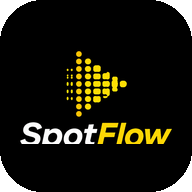
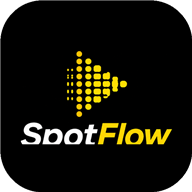
deploy: 32304e6 v0.0.0 [main] tor. 15. 09. 2026  2:17

diff --git a/sw.js b/sw.js
@@ -1,1 +1,1 @@
-if(!self.define){let s,e={};const i=(i,n)=>(i=new URL(i+".js",n).href,e[i]||new Promise(e=>{if("document"in self){const s=document.createElement("script");s.src=i,s.onload=e,document.head.appendChild(s)}else s=i,importScripts(i),e()}).then(()=>{let s=e[i];if(!s)throw new Error(`Module ${i} didn’t register its module`);return s}));self.define=(n,r)=>{const l=s||("document"in self?document.currentScript.src:"")||location.href;if(e[l])return;let o={};const u=s=>i(s,l),a={module:{uri:l},exports:o,require:u};e[l]=Promise.all(n.map(s=>a[s]||u(s))).then(s=>(r(...s),o))}}define(["./workbox-9c191d2f"],function(s){"use strict";self.skipWaiting(),s.clientsClaim(),s.precacheAndRoute([{url:"spotflow-logo.png",revision:"9ff837beaae7fa1dc3f49606cdd8426b"},{url:"registerSW.js",revision:"1872c500de691dce40960bb85481de07"},{url:"notification.mp3",revision:"495b007e540929ee01e7f0ebe2cb47cc"},{url:"index.html",revision:"413a0f9f843cf7f486b5be91e26f038a"},{url:"icons.svg",revision:"3b4fcfcf393eca4d264dca4a4663bc37"},{url:"favicon.svg",revision:"7e840862161341271697daa99a40d76b"},{url:"icons/preview-512.png",revision:"50a3182d126662bba15eb9903e26a877"},{url:"icons/icon.svg",revision:"6c73a8a7912e82b07e328a619e6c216f"},{url:"icons/icon-512.png",revision:"50a3182d126662bba15eb9903e26a877"},{url:"icons/icon-512-maskable.png",revision:"db7b7ddf3205966ee821acd1664694e5"},{url:"icons/icon-192.png",revision:"ec52d528c0d2f7875d8ada35d806cc69"},{url:"fonts/fonts.css",revision:"e4f489587bd2df9a90fa72673d0f4624"},{url:"assets/web-BqKuqhJQ.js",revision:null},{url:"assets/supabase-zfsjU53t.js",revision:null},{url:"assets/Sponzorstva-CPTqAeUr.js",revision:null},{url:"assets/Settings-BzRrHga8.js",revision:null},{url:"assets/rolldown-runtime-DAXXjFlN.js",revision:null},{url:"assets/purify.es-Bu4Grnl0.js",revision:null},{url:"assets/Promocije-Bkwu-943.js",revision:null},{url:"assets/PdfSendModal-Cw6U3sDd.js",revision:null},{url:"assets/jsx-runtime-BvIZmjn5.js",revision:null},{url:"assets/jspdf.es.min-C9olxo-a.js",revision:null},{url:"assets/index.es-CZKQ5KPn.js",revision:null},{url:"assets/index-DMuIlxl7.css",revision:null},{url:"assets/index-Co3HiImI.js",revision:null},{url:"assets/html2canvas-CLVA0Ark.js",revision:null},{url:"assets/docxParse-CSU2G-Ha.js",revision:null},{url:"assets/DocxImporter-VgXw61Li.js",revision:null},{url:"assets/ConfirmModal-DUYBMh_Q.js",revision:null},{url:"assets/Analytics-DYrX2tS6.js",revision:null},{url:"notification.mp3",revision:"495b007e540929ee01e7f0ebe2cb47cc"},{url:"icons/icon-192.png",revision:"ec52d528c0d2f7875d8ada35d806cc69"},{url:"icons/icon-512-maskable.png",revision:"db7b7ddf3205966ee821acd1664694e5"},{url:"icons/icon-512.png",revision:"50a3182d126662bba15eb9903e26a877"},{url:"icons/preview-512.png",revision:"50a3182d126662bba15eb9903e26a877"}],{}),s.cleanupOutdatedCaches(),s.registerRoute(new s.NavigationRoute(s.createHandlerBoundToURL("index.html")))});
+if(!self.define){let s,e={};const i=(i,n)=>(i=new URL(i+".js",n).href,e[i]||new Promise(e=>{if("document"in self){const s=document.createElement("script");s.src=i,s.onload=e,document.head.appendChild(s)}else s=i,importScripts(i),e()}).then(()=>{let s=e[i];if(!s)throw new Error(`Module ${i} didn’t register its module`);return s}));self.define=(n,r)=>{const l=s||("document"in self?document.currentScript.src:"")||location.href;if(e[l])return;let o={};const u=s=>i(s,l),a={module:{uri:l},exports:o,require:u};e[l]=Promise.all(n.map(s=>a[s]||u(s))).then(s=>(r(...s),o))}}define(["./workbox-9c191d2f"],function(s){"use strict";self.skipWaiting(),s.clientsClaim(),s.precacheAndRoute([{url:"spotflow-logo.png",revision:"9ff837beaae7fa1dc3f49606cdd8426b"},{url:"registerSW.js",revision:"1872c500de691dce40960bb85481de07"},{url:"notification.mp3",revision:"495b007e540929ee01e7f0ebe2cb47cc"},{url:"index.html",revision:"413a0f9f843cf7f486b5be91e26f038a"},{url:"icons.svg",revision:"3b4fcfcf393eca4d264dca4a4663bc37"},{url:"favicon.svg",revision:"7e840862161341271697daa99a40d76b"},{url:"icons/preview-512.png",revision:"50a3182d126662bba15eb9903e26a877"},{url:"icons/icon.svg",revision:"6c73a8a7912e82b07e328a619e6c216f"},{url:"icons/icon-512.png",revision:"50a3182d126662bba15eb9903e26a877"},{url:"icons/icon-512-maskable.png",revision:"db7b7ddf3205966ee821acd1664694e5"},{url:"icons/icon-192.png",revision:"d4c6c8dcc8eee0bd440e682a4a72e1b1"},{url:"fonts/fonts.css",revision:"e4f489587bd2df9a90fa72673d0f4624"},{url:"assets/web-BqKuqhJQ.js",revision:null},{url:"assets/supabase-zfsjU53t.js",revision:null},{url:"assets/Sponzorstva-CPTqAeUr.js",revision:null},{url:"assets/Settings-BzRrHga8.js",revision:null},{url:"assets/rolldown-runtime-DAXXjFlN.js",revision:null},{url:"assets/purify.es-Bu4Grnl0.js",revision:null},{url:"assets/Promocije-Bkwu-943.js",revision:null},{url:"assets/PdfSendModal-Cw6U3sDd.js",revision:null},{url:"assets/jsx-runtime-BvIZmjn5.js",revision:null},{url:"assets/jspdf.es.min-C9olxo-a.js",revision:null},{url:"assets/index.es-CZKQ5KPn.js",revision:null},{url:"assets/index-DMuIlxl7.css",revision:null},{url:"assets/index-Co3HiImI.js",revision:null},{url:"assets/html2canvas-CLVA0Ark.js",revision:null},{url:"assets/docxParse-CSU2G-Ha.js",revision:null},{url:"assets/DocxImporter-VgXw61Li.js",revision:null},{url:"assets/ConfirmModal-DUYBMh_Q.js",revision:null},{url:"assets/Analytics-DYrX2tS6.js",revision:null},{url:"notification.mp3",revision:"495b007e540929ee01e7f0ebe2cb47cc"},{url:"icons/icon-192.png",revision:"d4c6c8dcc8eee0bd440e682a4a72e1b1"},{url:"icons/icon-512-maskable.png",revision:"db7b7ddf3205966ee821acd1664694e5"},{url:"icons/icon-512.png",revision:"50a3182d126662bba15eb9903e26a877"},{url:"icons/preview-512.png",revision:"50a3182d126662bba15eb9903e26a877"}],{}),s.cleanupOutdatedCaches(),s.registerRoute(new s.NavigationRoute(s.createHandlerBoundToURL("index.html")))});
